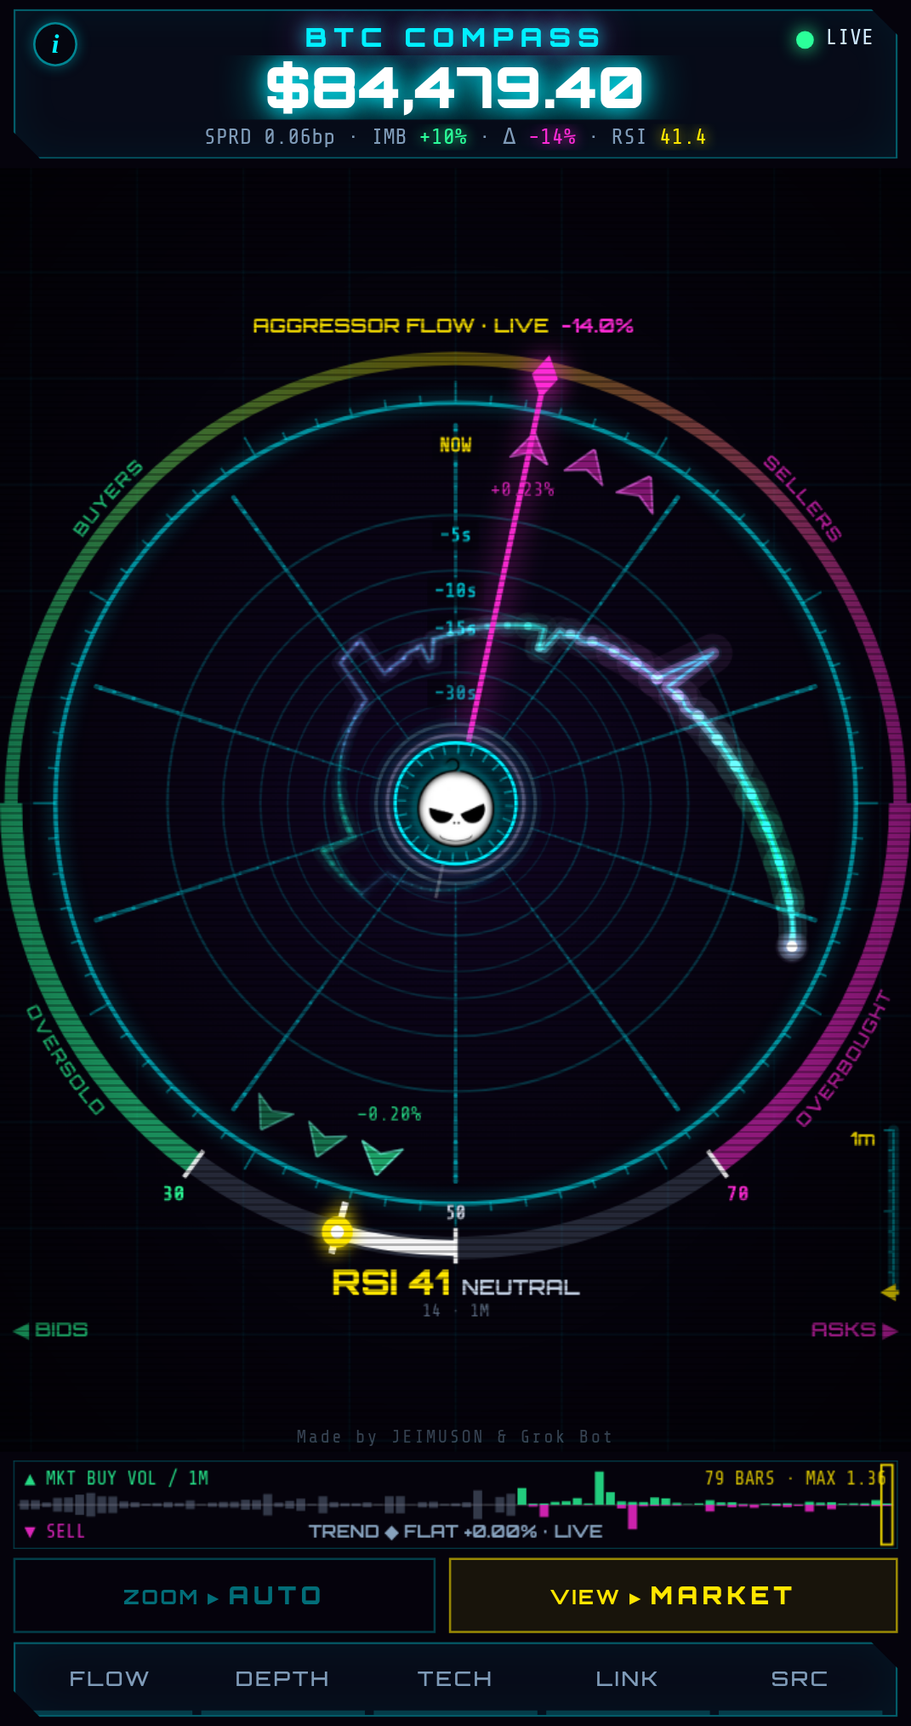
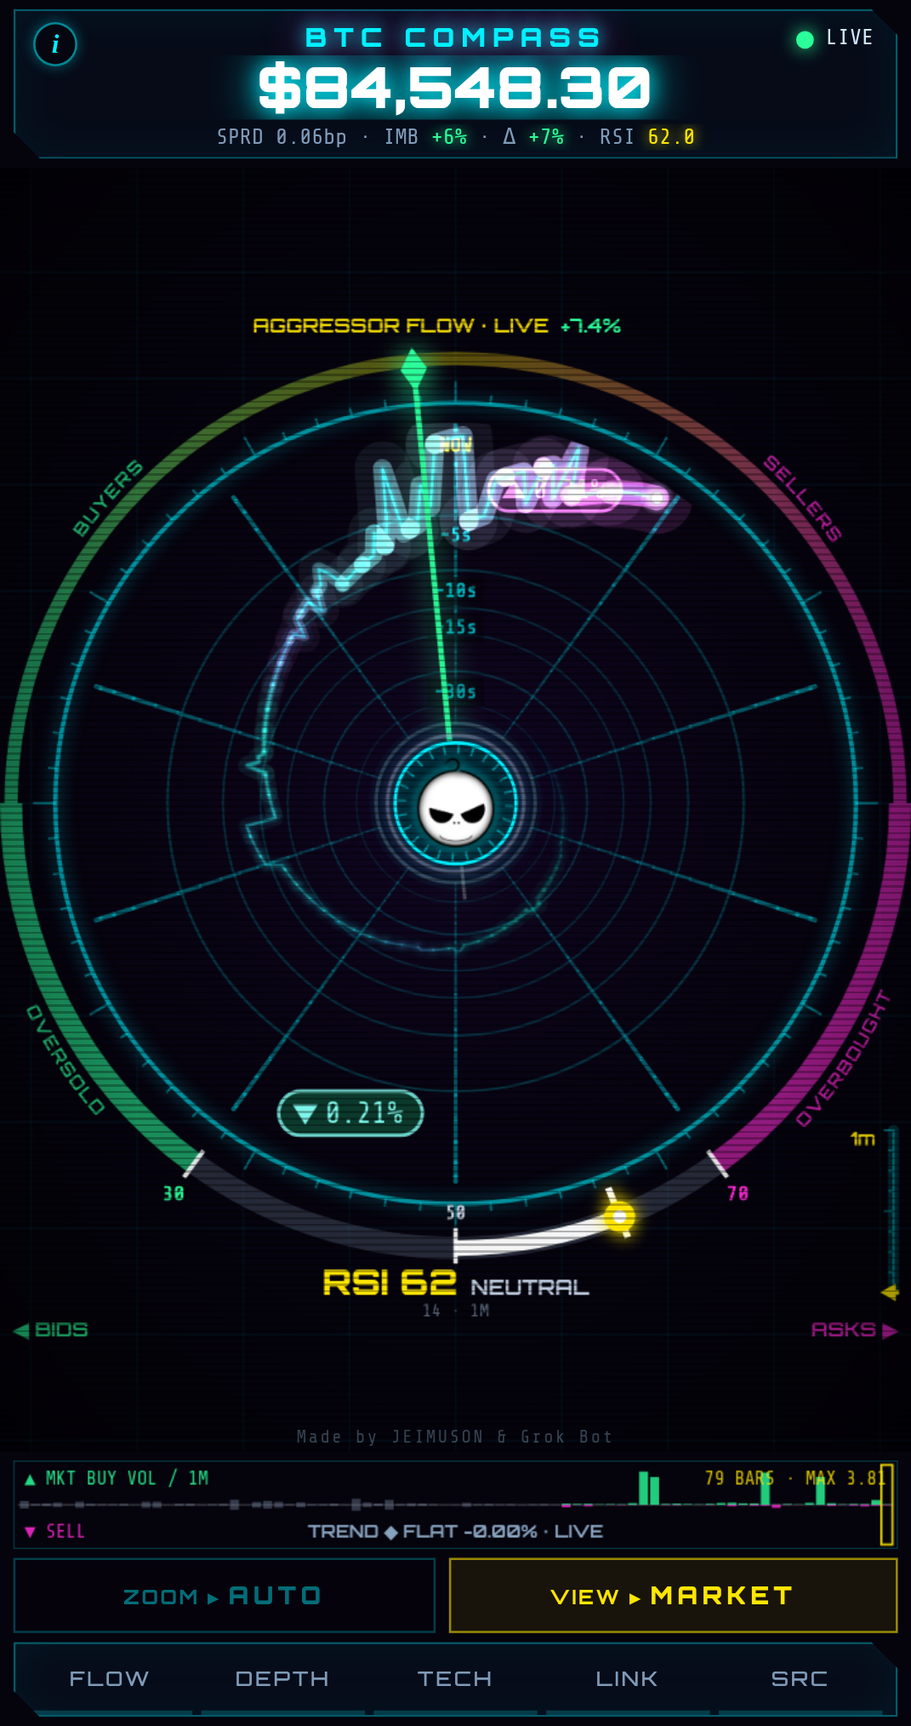
MARKET wall badges: nearest buy/sell wall only (build 20261002-1937)

diff --git a/index.html b/index.html
@@ -3,7 +3,7 @@
 <head>
 <meta charset="utf-8">
 <meta http-equiv="Cache-Control" content="no-cache, no-store, must-revalidate"><meta http-equiv="Pragma" content="no-cache"><meta http-equiv="Expires" content="0">
-<script>window.OFC_BUILD='20261002-1911';(function(){try{if(!/^https?:/.test(location.protocol))return;fetch(location.pathname+'?_='+Date.now(),{cache:'no-store'}).then(r=>r.text()).then(t=>{const m=t.match(/OFC_BUILD='([^']+)'/);if(m&&m[1]!==window.OFC_BUILD&&sessionStorage.getItem('ofcB')!==m[1]){sessionStorage.setItem('ofcB',m[1]);location.replace(location.pathname+'?v='+m[1]+location.hash);}}).catch(()=>{});}catch(e){}})();</script>
+<script>window.OFC_BUILD='20261002-1937';(function(){try{if(!/^https?:/.test(location.protocol))return;fetch(location.pathname+'?_='+Date.now(),{cache:'no-store'}).then(r=>r.text()).then(t=>{const m=t.match(/OFC_BUILD='([^']+)'/);if(m&&m[1]!==window.OFC_BUILD&&sessionStorage.getItem('ofcB')!==m[1]){sessionStorage.setItem('ofcB',m[1]);location.replace(location.pathname+'?v='+m[1]+location.hash);}}).catch(()=>{});}catch(e){}})();</script>
 <meta name="viewport" content="width=device-width,initial-scale=1,viewport-fit=cover,user-scalable=no">
 <meta name="theme-color" content="#05030c">
 <meta name="color-scheme" content="dark">
@@ -165,7 +165,7 @@ body.hublogo #top .logo{display:none}   /* mobile: logo lives in the compass hub
  <li>Trail swings <b>out</b> = price up, <b>in</b> = price down.</li>
  <li><b class="gr">Green</b> = buyers, <b class="rd">red</b> = sellers. Thicker trail = more volume.</li>
  <li><b>Flares</b> mark the spots with the heaviest trading.</li>
- <li><b>Ghost walls</b> = the biggest limit walls: glowing lines where trades at their price would land, or edge chevrons (top = above, bottom = below, with % distance) when outside the scale. They flare when hit, flash when eaten, go dashed when pulled.</li></ul>
+ <li><b>Wall badges</b> = the nearest big buy wall (bottom) and sell wall (top) with their distance from price; they pulse as price nears, flare when hit, show EATEN / PULLED and hand off to the next wall. In range, the wall also glows as a line across the spiral.</li></ul>
  <h3>LIMIT VIEW · ORDER-BOOK WALLS</h3>
  <ul><li>Arcs are <b>walls</b> of waiting orders: <b class="gr">buyers left</b>, <b class="rd">sellers right</b>.</li>
  <li>Distance from the middle = distance from the current price.</li>
@@ -1440,7 +1440,7 @@ function drawTrailFlares(now){
 }
 function trailDom(){ // current dominant aggressor side over the last ~10s of the trail (-1 sell .. +1 buy)
   let b=0,x=0;for(let a=0;a<Math.min(10,trail.length);a++){b+=trail[a].bs||0;x+=trail[a].ss||0;}return b+x>0?(b-x)/(b+x):0;}
-let GWS=new Map(),GWT=0;   // MARKET ghost-wall state
+let GWS=new Map(),GWT=0,GB={bid:null,ask:null};   // MARKET ghost-wall state
 function drawTrail(now){
   if(!trail.length||!dispMid)return;
   const span=dispMid*dispRange, px2=(RMAX-R0)/span, sEnd=FOCAL/(FOCAL+HIST_SEC);
@@ -1484,54 +1484,57 @@ function drawTrail(now){
   // in the spiral's own geometry: the locus where trades AT that price would land (same angle/depth/price mapping as the trail), over the
   // newest half-turn, under the spiral. Hidden when the price sits outside the current price scale (offset saturated).
   // Trades at the price -> flare; EATEN (classifier) -> short break flash; PULLED -> fades out as a dashed ghost.
-  if(BREADY&&sortedB.length&&sortedA.length){const tN=performance.now(),dnow=Date.now(),tol=BUCK/2+mid*0.00002;let maxq=1e-9;for(const L of [sortedB,sortedA])for(const x of L)if(x[1]>maxq)maxq=x[1];
+  if(BREADY&&sortedB.length&&sortedA.length){const tN=performance.now(),dnow=Date.now(),tol=BUCK/2+mid*0.00002;
     const sT0=FOCAL/(FOCAL+TURN*DZ),L0=Math.max(2,0.55*RMAX*KO*(1-sT0)),vis=X=>Math.abs((X-P0)/BSP*RMAX*KO*0.22/L0),live=new Set(),dt=GWT?Math.min(0.1,(tN-GWT)/1000):0;GWT=tN;
-    // top 3 per side >= 25% of the biggest level; each side's biggest wall always kept so every side is represented
-    for(const [side,lv] of [['bid',sortedB],['ask',sortedA]])topBySize(lv,3).forEach(([px,q],i)=>{if(i>0&&q<0.25*maxq)return;const k=side+'|'+px;live.add(k);
-      let G=GWS.get(k);if(!G){G={side,px,q,a:0,fl:0,br:-1e9,pull:-1e9,evT:tN};GWS.set(k,G);}G.q=q;});
-    for(const o of SPF.ev){if(o.kind!=='eaten'&&o.kind!=='pulled')continue;const G=GWS.get(o.side+'|'+o.px);if(G&&o.tt>G.evT){G.evT=o.tt;if(o.kind==='eaten')G.br=o.tt;else G.pull=o.tt;}}
-    const A2=Math.max(2,Math.min(AMAX,MWIN*0.5)),NC=8,sc=Math.max(1,RMAX/380),EDG={bid:[],ask:[]};
-    for(const [k,G] of GWS){const on=live.has(k),pulled=tN-G.pull<3000,brk=tN-G.br<800;
-      G.a+=((on&&!pulled?1:0)-G.a)*(1-Math.exp(-dt/(on?0.5:pulled?1.2:0.35)));
+    // significant = LIMIT topWalls rule (top 3 by size per side); track ONLY the nearest of those per side (by price distance)
+    const TW={bid:topBySize(sortedB,3),ask:topBySize(sortedA,3)};let maxq=1e-9;for(const sd of ['bid','ask'])for(const x of TW[sd])maxq=Math.max(maxq,x[1]);
+    for(const side of ['bid','ask']){let best=null;for(const [px,q] of TW[side]){const d=Math.abs(px-P0);if(!best||d<best.d)best={px,q,d};}if(!best)continue;
+      const k=side+'|'+best.px;live.add(k);let G=GWS.get(k);if(!G){G={side,px:best.px,q:best.q,a:0,fl:0,br:-1e9,pull:-1e9,evT:tN,off:0,wasT:tN};GWS.set(k,G);}G.q=best.q;G.off=0;G.wasT=tN;
+      const dp=Math.abs(best.px-P0)/P0*100;let B=GB[side];if(!B)B=GB[side]={dd:dp,a:0,rel:0,ev:null,evt:-1e9};B.px=best.px;B.q=best.q;B.dp=dp;B.G=G;}
+    // classifier events (EATEN/PULLED) hit the wall's line and, if it was this side's tracked wall, its badge; tracking hands off to the next nearest
+    for(const o of SPF.ev){if(o.kind!=='eaten'&&o.kind!=='pulled')continue;const G=GWS.get(o.side+'|'+o.px);if(G&&o.tt>G.evT){G.evT=o.tt;if(o.kind==='eaten')G.br=o.tt;else G.pull=o.tt;
+      const B=GB[G.side];if(B&&o.tt-G.wasT<8000){B.ev=o.kind;B.evt=o.tt;}}}
+    const A2=Math.max(2,Math.min(AMAX,MWIN*0.5)),NC=8,sc=Math.max(1,RMAX/330);
+    for(const [k,G] of GWS){const on=live.has(k);if(!on&&!G.off)G.off=tN;const pulled=tN-G.pull<3000,brk=tN-G.br<800;
+      G.a+=((on&&!pulled?1:0)-G.a)*(1-Math.exp(-dt/(on?0.5:pulled?1.2:0.45)));
       let hv=0;for(let i=trades.length-1;i>=0;i--){const t=trades[i];if(t.t<dnow-1200)break;if((G.side==='bid'?t.side==='sell':t.side==='buy')&&Math.abs(t.px-G.px)<=tol)hv+=t.qty;}
       const ft=Math.min(1,hv/(0.08*G.q+1e-9));G.fl+=(ft-G.fl)*(ft>G.fl?0.35:1-Math.exp(-dt/0.6));
-      if(!on&&G.a<0.01&&!brk&&!pulled){GWS.delete(k);continue;}
-      const v=vis(G.px),va=Math.max(0,Math.min(1,(1.3-v)/0.3));G.v=v;G.A=0;G.E=0;
-      const rel=Math.sqrt(Math.min(1,G.q/maxq)),bu=brk?1-(tN-G.br)/800:0,c=G.side==='bid'?COL.bid:COL.ask;
-      const A0=Math.max(G.a,pulled?Math.max(0,1-(tN-G.pull)/3000):0,bu),pd=pulled&&!on;
+      if(!on&&tN-G.off>6000&&!brk&&!pulled){GWS.delete(k);continue;}   // kept a few s after hand-off so a late EATEN/PULLED verdict still lands
+      const v=vis(G.px),va=Math.max(0,Math.min(1,(1.3-v)/0.3));G.v=v;G.A=0;if(va<=0)continue;
+      const rel=Math.sqrt(Math.min(1,G.q/maxq)),bu=brk?1-(tN-G.br)/800:0,c=G.side==='bid'?COL.bid:COL.ask,pd=pulled&&!on;
+      const A=va*Math.max(G.a,pulled?Math.max(0,1-(tN-G.pull)/3000):0,bu);G.A=A;if(A<=0.01)continue;
       const col=pd?[215,200,255]:brk?[Math.min(255,c[0]+110),Math.min(255,c[1]+110),Math.min(255,c[2]+110)]:c;
-      if(va<1&&A0>0.01)EDG[(G.px>=P0)?'ask':'bid'].push({G,A:A0*(1-va),rel,bu,pd,col,c});   // outside the scale -> clamped edge chevron
-      const A=va*A0;G.A=A;if(A<=0.01)continue;
       const pts=[];for(let f=0;f<=A2+1e-6;f+=0.5)pts.push([f,pt(f,G.px)]);
       ctx.save();ctx.lineCap='round';
       if(pd){ctx.setLineDash([6*sc,6*sc]);ctx.lineDashOffset=-tN/45;}else if(brk){ctx.setLineDash([10*(1-bu)+3,7+12*(1-bu)]);}
       const lw=Math.max(2,(1.5+3*rel+4*G.fl+6*bu)*sc);
-      for(const [wm,am,gl] of [[3.2,0.22,0],[1,1,1]]){ctx.lineWidth=lw*wm;   // soft glow band, then the core line
+      for(const [wm,am,gl] of [[3.2,0.22,0],[1,1,1]]){ctx.lineWidth=lw*wm;   // soft glow band, then the core line (under the spiral)
         if(gl&&Q>0){ctx.shadowColor=rgba(c,0.9);ctx.shadowBlur=(6+18*Math.max(G.fl,bu))*sc;}
         for(let ci=0;ci<NC;ci++){const i0=Math.floor(ci*(pts.length-1)/NC),i1=Math.floor((ci+1)*(pts.length-1)/NC);if(i1<=i0)continue;const fm=pts[(i0+i1)>>1][0],um=pts[(i0+i1)>>1][1].u;
           const al=am*A*(0.3+0.3*rel+0.45*G.fl+0.6*bu)*Math.pow(um,0.5)*Math.pow(Math.max(0,1-fm/A2),0.45);if(al<=0.004)continue;
           ctx.strokeStyle=rgba(col,Math.min(0.95,al).toFixed(3));ctx.beginPath();ctx.moveTo(pts[i0][1].x,pts[i0][1].y);for(let i=i0+1;i<=i1;i++)ctx.lineTo(pts[i][1].x,pts[i][1].y);ctx.stroke();}}
-      {const ti=Math.min(pts.length-1,Math.max(1,Math.round(pts.length*0.18))),p=pts[ti][1];   // small size tag on the line
-        ctx.setLineDash([]);ctx.shadowBlur=0;ctx.font=`${Math.round(9*sc)}px "Share Tech Mono",monospace`;ctx.textAlign='center';ctx.textBaseline='middle';
-        ctx.fillStyle=rgba(col,Math.min(0.85,A*(0.55+0.3*rel+0.3*G.fl)).toFixed(3));ctx.fillText(fmtUSD(G.q*G.px),p.x,p.y-8*sc);}
       ctx.restore();}
-    // clamped edge indicators: walls beyond the scale sit as glowing chevrons just inside the outer ring,
-    // asks/above-price at the top edge (right of NOW), bids/below-price at the bottom edge; nearest first; brightness falls with distance
-    for(const sd of ['ask','bid']){const L=EDG[sd].sort((a,b)=>Math.abs(a.G.px-P0)-Math.abs(b.G.px-P0)),up=sd==='ask',step=Math.max(0.075,28/RMAX),a0=Math.max(0.16,36/RMAX);
-      L.forEach((o,k)=>{const {G,rel,bu,pd,col,c}=o,d=(G.px-P0)/P0*100,ad=Math.abs(d),fall=0.5+0.5*Math.exp(-ad/0.8);
-        const al=Math.min(1,o.A*(0.55+0.35*rel+0.5*G.fl+0.6*bu)*fall*(k===0?1:0.8));G.E=+al.toFixed(2);if(al<0.02)return;
-        const th=up?-Math.PI/2+a0+step*k:Math.PI/2+a0+step*k,nx=Math.cos(th),ny=Math.sin(th),tx=-ny,ty=nx,r=RMAX*0.95,cx=CX+nx*r,cy=CY+ny*r;
-        const sz=(5+5*rel+4*G.fl+5*bu)*sc;
-        ctx.save();if(Q>0){ctx.shadowColor=rgba(c,0.95);ctx.shadowBlur=(8+16*Math.max(G.fl,bu))*sc;}
-        const P=(a,b)=>[cx+nx*a+tx*b,cy+ny*a+ty*b],T=P(sz,0),W1=P(-sz*0.45,sz*0.95),N=P(-sz*0.05,0),W2=P(-sz*0.45,-sz*0.95);
-        const path=()=>{ctx.beginPath();ctx.moveTo(...T);ctx.lineTo(...W1);ctx.lineTo(...N);ctx.lineTo(...W2);ctx.closePath();};
-        if(pd){ctx.setLineDash([3*sc,3*sc]);ctx.lineWidth=1.4*sc;ctx.strokeStyle=rgba(col,al.toFixed(3));path();ctx.stroke();}
-        else{ctx.fillStyle=rgba(col,(al*0.85).toFixed(3));path();ctx.fill();ctx.lineWidth=1*sc;ctx.strokeStyle=rgba([Math.min(255,col[0]+70),Math.min(255,col[1]+70),Math.min(255,col[2]+70)],al.toFixed(3));ctx.stroke();}
-        if(bu>0){ctx.lineWidth=2*sc;ctx.strokeStyle=rgba([255,255,255],(bu*0.8).toFixed(3));ctx.beginPath();ctx.arc(cx,cy,sz*(1.2+1.6*(1-bu)),0,Math.PI*2);ctx.stroke();}
-        if(k===0||RMAX>250){ctx.shadowBlur=0;ctx.font=`${Math.round(9*sc)}px "Share Tech Mono",monospace`;ctx.textAlign='center';ctx.textBaseline='middle';
-          const txt=(d>=0?'+':'\u2212')+ad.toFixed(ad<1?2:1)+'%'+(RMAX>250?' '+fmtUSD(G.q*G.px):''),tp=P(-(5+5*rel)*sc-9*sc-k*11*sc,0);
-          ctx.fillStyle=rgba(col,Math.min(0.95,al+0.1).toFixed(3));ctx.fillText(txt,tp[0],tp[1]);}
-        ctx.restore();});}
+    // one badge per side just inside the outer ring: sell wall top (right of NOW), buy wall bottom (left); distance inside the capsule
+    const rr=(x,y,w,h)=>{const r=h/2;ctx.beginPath();ctx.moveTo(x+r,y);ctx.lineTo(x+w-r,y);ctx.arc(x+w-r,y+r,r,-Math.PI/2,Math.PI/2);ctx.lineTo(x+r,y+h);ctx.arc(x+r,y+r,r,Math.PI/2,Math.PI*1.5);ctx.closePath();};
+    for(const side of ['ask','bid']){const B=GB[side];if(!B||!B.G)continue;const G=B.G,up=side==='ask',c=up?COL.ask:COL.bid;
+      B.dd+=(B.dp-B.dd)*(1-Math.exp(-dt/0.25));B.a+=(1-B.a)*(1-Math.exp(-dt/0.4));B.rel+=(Math.sqrt(Math.min(1,B.q/maxq))-B.rel)*(1-Math.exp(-dt/0.4));
+      const evA=B.ev&&tN-B.evt<1400?1-(tN-B.evt)/1400:0,ek=evA>0?B.ev:null,fl=G.fl||0;
+      const prox=Math.max(0,Math.min(1,1-((G.v||9)-0.6)/4)),pul=0.5+0.5*Math.sin(tN/1000*Math.PI*(1.2+2.8*prox));   // pulse quickens/strengthens as price nears
+      const s2=sc*(0.9+0.25*B.rel),h=Math.round(18*s2),fz=Math.round(11.5*s2);ctx.font=`${fz}px "Share Tech Mono",monospace`;
+      const txt=ek?(ek==='eaten'?'EATEN':'PULLED'):B.dd.toFixed(B.dd<1?2:1)+'%',w=Math.ceil(ctx.measureText(txt).width+h*1.45);
+      const R=RMAX*0.935-h*0.6,off=Math.min(R*0.6,15*sc+w/2),yy=Math.sqrt(R*R-off*off),x=up?CX+off:CX-off,y=up?CY-yy:CY+yy,x0=x-w/2,y0=y-h/2;
+      const col=ek==='pulled'?[215,200,255]:c,hi=[Math.min(255,col[0]+90),Math.min(255,col[1]+90),Math.min(255,col[2]+90)];
+      const glow=(0.35+0.45*B.rel)*(1+0.9*prox*pul)+1.3*fl+1.2*evA;
+      ctx.save();ctx.globalAlpha=B.a;ctx.textAlign='left';ctx.textBaseline='middle';
+      if(Q>0){ctx.shadowColor=rgba(col,0.9);ctx.shadowBlur=(5+9*glow)*sc;}
+      ctx.fillStyle='rgba(4,8,18,0.85)';rr(x0,y0,w,h);ctx.fill();ctx.shadowBlur=0;
+      ctx.fillStyle=ek==='eaten'?rgba([255,255,255],(0.55*evA).toFixed(3)):rgba(col,Math.min(0.6,0.1+0.12*B.rel+0.3*fl+0.12*prox*pul).toFixed(3));rr(x0,y0,w,h);ctx.fill();
+      if(ek==='pulled')ctx.setLineDash([3*sc,2.5*sc]);ctx.lineWidth=1.4*s2;ctx.strokeStyle=rgba(hi,Math.min(1,0.55+0.3*B.rel+0.4*fl).toFixed(3));rr(x0,y0,w,h);ctx.stroke();ctx.setLineDash([]);
+      if(ek==='eaten'){const g=(1-evA)*12*sc;ctx.lineWidth=2*sc;ctx.strokeStyle=rgba([255,255,255],(0.8*evA).toFixed(3));rr(x0-g,y0-g,w+2*g,h+2*g);ctx.stroke();}
+      {const ax=x0+h*0.6,ay=y,a=h*0.26;ctx.fillStyle=rgba(hi,0.95);ctx.beginPath();   // arrow: up for the sell wall above, down for the buy wall below
+        if(up){ctx.moveTo(ax,ay-a);ctx.lineTo(ax+a*1.1,ay+a*0.75);ctx.lineTo(ax-a*1.1,ay+a*0.75);}else{ctx.moveTo(ax,ay+a);ctx.lineTo(ax+a*1.1,ay-a*0.75);ctx.lineTo(ax-a*1.1,ay-a*0.75);}ctx.closePath();ctx.fill();}
+      ctx.fillStyle=rgba(ek==='eaten'?[255,255,255]:hi,0.97);ctx.fillText(txt,x0+h*1.05,y+0.5);
+      B.x=Math.round(x);B.y=Math.round(y);B.w=w;B.h=h;ctx.restore();}
   }
   // centreline spine: thin continuous track that fades into the vanishing point
   ctx.lineWidth=1;
@@ -1764,7 +1767,7 @@ function frame(){
 connect();seedREST();
 requestAnimationFrame(frame);
 document.addEventListener('visibilitychange',()=>{if(!document.hidden&&(!ws||ws.readyState>1)){backoff=1000;connect();}});
-window.__ofc={get gw(){return [...GWS.values()].map(G=>({s:G.side,px:G.px,a:+G.a.toFixed(2),fl:+G.fl.toFixed(2),br:performance.now()-G.br<800,pull:performance.now()-G.pull<3000,v:+(G.v||0).toFixed(2),A:+(G.A||0).toFixed(2),E:G.E||0}))},simEat(ms,kind,hold,px){EAT={t0:Date.now(),ms,kind:kind||'eat',hold:hold==null?0:hold,px:px||0,q0:0,lq:null};},get spoof(){return {n:{...SPF.n},trk:SPF.trk.size,ev:SPF.ev.slice(-6).map(o=>({k:o.kind,s:o.side,px:o.px,q0:+o.q0.toFixed(1),q1:+o.q1.toFixed(1),ratio:o.ratio,spoof:o.spoof,big:o.big,ven:o.ven}))}},get eat(){const n=performance.now();return EAT&&{px:EAT.px,q0:EAT.q0,ref:REFQ,cp:history.filter((h,i)=>i%8===0&&(n-h.t)/1000<=LWIN).map(h=>{const e=h.b.find(x=>x[0]===EAT.px);return e?[Math.round((n-h.t)/1000),+levelSpan(e[1],REFQ||h.maxq).toFixed(3)]:null;}).filter(Boolean)}},get mt(){return {w:+MT.w.toFixed(1),q:+MT.q.toFixed(2),z:+MT.z.toFixed(2),sg:MT.sg,burst:burst.on}},get lt(){return {w:+LT.w.toFixed(1),rho:+LT.rho.toFixed(2),lwin:+LWIN.toFixed(1),burst:burst.on}},get keyWalls(){return VIEW==='limit'?{...KEYW,nSig:{bid:topWalls.bid.length,ask:topWalls.ask.length},marks:PLBL.map(q=>q.txt)}:null},simFlat(){SIM={on:true,base:mid,t0:0,dir:0,amp:0,ramp:1};},simMove(dir,frac,ramp){SIM.t0=Date.now();SIM.dir=dir;SIM.amp=frac*SIM.base;SIM.ramp=ramp;},get resp(){const v=proj(HIST_SEC),m=proj(HIST_SEC*0.4);return {tw:+(TWIST_MAX*VSP.w*180/Math.PI).toFixed(2),vp:+(v.y-CY).toFixed(1),vm:+(m.y-CY).toFixed(1),o3:+((window.__ofcR||{}).o3||0).toFixed(1),o8:+((window.__ofcR||{}).o8||0).toFixed(1),mw:+MWIN.toFixed(1),dr:dispRange,pr:pathRef}},get bp(){return BP.length},autoOff(){pillT=0;if(rangeAuto)pillTap();},get dr(){return dispRange},get hubLogo(){return !WIDE&&LOGO.complete&&LOGO.naturalWidth>0},get hdrLogo(){const e=document.querySelector('#top .logo');return !!e&&getComputedStyle(e).display!=='none'},get flares(){return VIEW==='market'?[...FLR.entries()].map(([k,F])=>{const p=F.dx!=null?{x:F.dx,y:F.dy}:null;return {k,T:F.T,tT:trailT,st:trailStep,w:+F.w.toFixed(2),on:!!F.on,side:F.c===COL.bid?'bid':'ask',x:p?Math.round(p.x):null,y:p?Math.round(p.y):null};}):null},winTo(S){intro=null;setAuto(false);syncZA();let lo=0,hi=1;const f=u=>mWinOf(zR(u));const dec=f(0)>f(1);for(let i=0;i<40;i++){const m=(lo+hi)/2;if((f(m)>S)===dec)lo=m;else hi=m;}rangeFrac=zR((lo+hi)/2);return f((lo+hi)/2);},get vring(){if(VIEW!=='market')return null;const p=proj(HIST_SEC);return {full:+(RMAX*p.s).toFixed(1),r:+(RMAX*p.s).toFixed(1),x:Math.round(p.x),y:Math.round(p.y),R0:Math.round(R0)}},get twist(){return VIEW==='market'?+(TWIST_MAX*VSP.w*180/Math.PI).toFixed(1):0},get spin(){return {w:+VSP.w.toFixed(3),ph:+VSP.ph.toFixed(3)}},zManual(){intro=null;setAuto(false);syncZA();},get burst(){return {...burst,now:Date.now()}},simBurst(usd){const px=trades.length?trades[trades.length-1].px:mid,n=Date.now();for(let k=0;k<8;k++)trades.push({t:n-(7-k)*300,side:k%2?'sell':'buy',qty:usd/8/px,px,v:'kraken'});trailDirty=true;},get auto(){return rangeAuto},zAuto(){intro=null;setAuto(true);syncZA();},zIn(){intro=null;setAuto(false);rangeFrac=zR(1);syncZA();},get mwin(){return +MWIN.toFixed(1)},get lwin(){return +LWIN.toFixed(1)},get prange(){return PRANGE},get disp(){return dispRange},get plbl(){return PLBL.map(q=>q.txt)},get hubTxt(){return mid?hubTxt():null},get head(){return {x:Math.round(TRHEAD.x),y:Math.round(TRHEAD.y),CX,CY,R0:Math.round(R0),RMAX:Math.round(RMAX)}},get logo(){const g=logoGeom();return g&&{x:Math.round(g.x),y:Math.round(g.y),S:g.S,CX,CY,RMAX,W,H,Z:zbarGeom()}},get ven(){return Object.fromEntries(Object.entries(VEN).map(([k,v])=>[k,{st:v.st,share:+v.share.toFixed(3),books:BOOKS.filter(B=>B.v===k).map(B=>({k:B.k,ready:B.ready,n:B.b.size+B.a.size,ck:B.ckOk,ckBad:B.ckBad,resyncs:B.resyncs}))}]))},get src(){return SRC},setSource,get comb(){return {ready:BREADY,mid,bestBid,bestAsk,nb:sortedB.length,na:sortedA.length}},get raw(){return RAW.length},get flow(){const f=flow(30);return {b:Math.round(f.b),s:Math.round(f.s),r:+f.r.toFixed(3)}},get trendW(){return trendWin()},get win(){return winSec},get heatN(){return Object.fromEntries(Object.entries(HEATS).map(([w,H])=>[w,H.m.size]))},get intro(){return intro},book,get mid(){return mid},get ck(){return {ckOk,ckBad,ckLast}},get trades(){return tradeCount},get bubbles(){return bubbles.length},get hist(){return history.length},get ind(){return ind},get candles(){return candles.size},get dir(){return INBOUND?'in':'out'},get view(){return VIEW},get layout(){return {W,H,CX,CY,RMAX,R0,WIDE}},get tunnel(){const far=proj(HIST_SEC);return {FOCAL,farScale:far.s,farY:far.y-CY,dispRange,fitFrac,rangeAuto,RMAX}},zoom(f){setAuto(false);rangeFrac=Math.min(0.08,Math.max(0.0005,rangeFrac*f));},autoZoom(){setAuto(true);},get autoOn(){return rangeAuto},get zgeom(){return zbarGeom()},get conn(){return connState},get fps(){return FPS},get q(){return Q},get rc(){return reconnects},forceDrop(){ws&&ws.close();}};
+window.__ofc={get gw(){const n=performance.now(),bd=B=>B&&{px:B.px,dd:+B.dd.toFixed(3),a:+B.a.toFixed(2),ev:B.ev&&n-B.evt<1400?B.ev:null,x:B.x,y:B.y,w:B.w,h:B.h};return {bid:bd(GB.bid),ask:bd(GB.ask),lines:[...GWS.values()].map(G=>({s:G.side,px:G.px,a:+G.a.toFixed(2),fl:+G.fl.toFixed(2),br:n-G.br<800,pull:n-G.pull<3000,v:+(G.v||0).toFixed(2),A:+(G.A||0).toFixed(2)}))}},simEat(ms,kind,hold,px){EAT={t0:Date.now(),ms,kind:kind||'eat',hold:hold==null?0:hold,px:px||0,q0:0,lq:null};},get spoof(){return {n:{...SPF.n},trk:SPF.trk.size,ev:SPF.ev.slice(-6).map(o=>({k:o.kind,s:o.side,px:o.px,q0:+o.q0.toFixed(1),q1:+o.q1.toFixed(1),ratio:o.ratio,spoof:o.spoof,big:o.big,ven:o.ven}))}},get eat(){const n=performance.now();return EAT&&{px:EAT.px,q0:EAT.q0,ref:REFQ,cp:history.filter((h,i)=>i%8===0&&(n-h.t)/1000<=LWIN).map(h=>{const e=h.b.find(x=>x[0]===EAT.px);return e?[Math.round((n-h.t)/1000),+levelSpan(e[1],REFQ||h.maxq).toFixed(3)]:null;}).filter(Boolean)}},get mt(){return {w:+MT.w.toFixed(1),q:+MT.q.toFixed(2),z:+MT.z.toFixed(2),sg:MT.sg,burst:burst.on}},get lt(){return {w:+LT.w.toFixed(1),rho:+LT.rho.toFixed(2),lwin:+LWIN.toFixed(1),burst:burst.on}},get keyWalls(){return VIEW==='limit'?{...KEYW,nSig:{bid:topWalls.bid.length,ask:topWalls.ask.length},marks:PLBL.map(q=>q.txt)}:null},simFlat(){SIM={on:true,base:mid,t0:0,dir:0,amp:0,ramp:1};},simMove(dir,frac,ramp){SIM.t0=Date.now();SIM.dir=dir;SIM.amp=frac*SIM.base;SIM.ramp=ramp;},get resp(){const v=proj(HIST_SEC),m=proj(HIST_SEC*0.4);return {tw:+(TWIST_MAX*VSP.w*180/Math.PI).toFixed(2),vp:+(v.y-CY).toFixed(1),vm:+(m.y-CY).toFixed(1),o3:+((window.__ofcR||{}).o3||0).toFixed(1),o8:+((window.__ofcR||{}).o8||0).toFixed(1),mw:+MWIN.toFixed(1),dr:dispRange,pr:pathRef}},get bp(){return BP.length},autoOff(){pillT=0;if(rangeAuto)pillTap();},get dr(){return dispRange},get hubLogo(){return !WIDE&&LOGO.complete&&LOGO.naturalWidth>0},get hdrLogo(){const e=document.querySelector('#top .logo');return !!e&&getComputedStyle(e).display!=='none'},get flares(){return VIEW==='market'?[...FLR.entries()].map(([k,F])=>{const p=F.dx!=null?{x:F.dx,y:F.dy}:null;return {k,T:F.T,tT:trailT,st:trailStep,w:+F.w.toFixed(2),on:!!F.on,side:F.c===COL.bid?'bid':'ask',x:p?Math.round(p.x):null,y:p?Math.round(p.y):null};}):null},winTo(S){intro=null;setAuto(false);syncZA();let lo=0,hi=1;const f=u=>mWinOf(zR(u));const dec=f(0)>f(1);for(let i=0;i<40;i++){const m=(lo+hi)/2;if((f(m)>S)===dec)lo=m;else hi=m;}rangeFrac=zR((lo+hi)/2);return f((lo+hi)/2);},get vring(){if(VIEW!=='market')return null;const p=proj(HIST_SEC);return {full:+(RMAX*p.s).toFixed(1),r:+(RMAX*p.s).toFixed(1),x:Math.round(p.x),y:Math.round(p.y),R0:Math.round(R0)}},get twist(){return VIEW==='market'?+(TWIST_MAX*VSP.w*180/Math.PI).toFixed(1):0},get spin(){return {w:+VSP.w.toFixed(3),ph:+VSP.ph.toFixed(3)}},zManual(){intro=null;setAuto(false);syncZA();},get burst(){return {...burst,now:Date.now()}},simBurst(usd){const px=trades.length?trades[trades.length-1].px:mid,n=Date.now();for(let k=0;k<8;k++)trades.push({t:n-(7-k)*300,side:k%2?'sell':'buy',qty:usd/8/px,px,v:'kraken'});trailDirty=true;},get auto(){return rangeAuto},zAuto(){intro=null;setAuto(true);syncZA();},zIn(){intro=null;setAuto(false);rangeFrac=zR(1);syncZA();},get mwin(){return +MWIN.toFixed(1)},get lwin(){return +LWIN.toFixed(1)},get prange(){return PRANGE},get disp(){return dispRange},get plbl(){return PLBL.map(q=>q.txt)},get hubTxt(){return mid?hubTxt():null},get head(){return {x:Math.round(TRHEAD.x),y:Math.round(TRHEAD.y),CX,CY,R0:Math.round(R0),RMAX:Math.round(RMAX)}},get logo(){const g=logoGeom();return g&&{x:Math.round(g.x),y:Math.round(g.y),S:g.S,CX,CY,RMAX,W,H,Z:zbarGeom()}},get ven(){return Object.fromEntries(Object.entries(VEN).map(([k,v])=>[k,{st:v.st,share:+v.share.toFixed(3),books:BOOKS.filter(B=>B.v===k).map(B=>({k:B.k,ready:B.ready,n:B.b.size+B.a.size,ck:B.ckOk,ckBad:B.ckBad,resyncs:B.resyncs}))}]))},get src(){return SRC},setSource,get comb(){return {ready:BREADY,mid,bestBid,bestAsk,nb:sortedB.length,na:sortedA.length}},get raw(){return RAW.length},get flow(){const f=flow(30);return {b:Math.round(f.b),s:Math.round(f.s),r:+f.r.toFixed(3)}},get trendW(){return trendWin()},get win(){return winSec},get heatN(){return Object.fromEntries(Object.entries(HEATS).map(([w,H])=>[w,H.m.size]))},get intro(){return intro},book,get mid(){return mid},get ck(){return {ckOk,ckBad,ckLast}},get trades(){return tradeCount},get bubbles(){return bubbles.length},get hist(){return history.length},get ind(){return ind},get candles(){return candles.size},get dir(){return INBOUND?'in':'out'},get view(){return VIEW},get layout(){return {W,H,CX,CY,RMAX,R0,WIDE}},get tunnel(){const far=proj(HIST_SEC);return {FOCAL,farScale:far.s,farY:far.y-CY,dispRange,fitFrac,rangeAuto,RMAX}},zoom(f){setAuto(false);rangeFrac=Math.min(0.08,Math.max(0.0005,rangeFrac*f));},autoZoom(){setAuto(true);},get autoOn(){return rangeAuto},get zgeom(){return zbarGeom()},get conn(){return connState},get fps(){return FPS},get q(){return Q},get rc(){return reconnects},forceDrop(){ws&&ws.close();}};
 })();
 // ---------------- INFO overlay: what am I looking at? (✕ / tap outside / Esc) ----------------
 (function(){const I=document.getElementById('info'),B=document.getElementById('infoBtn');if(!I||!B)return;
